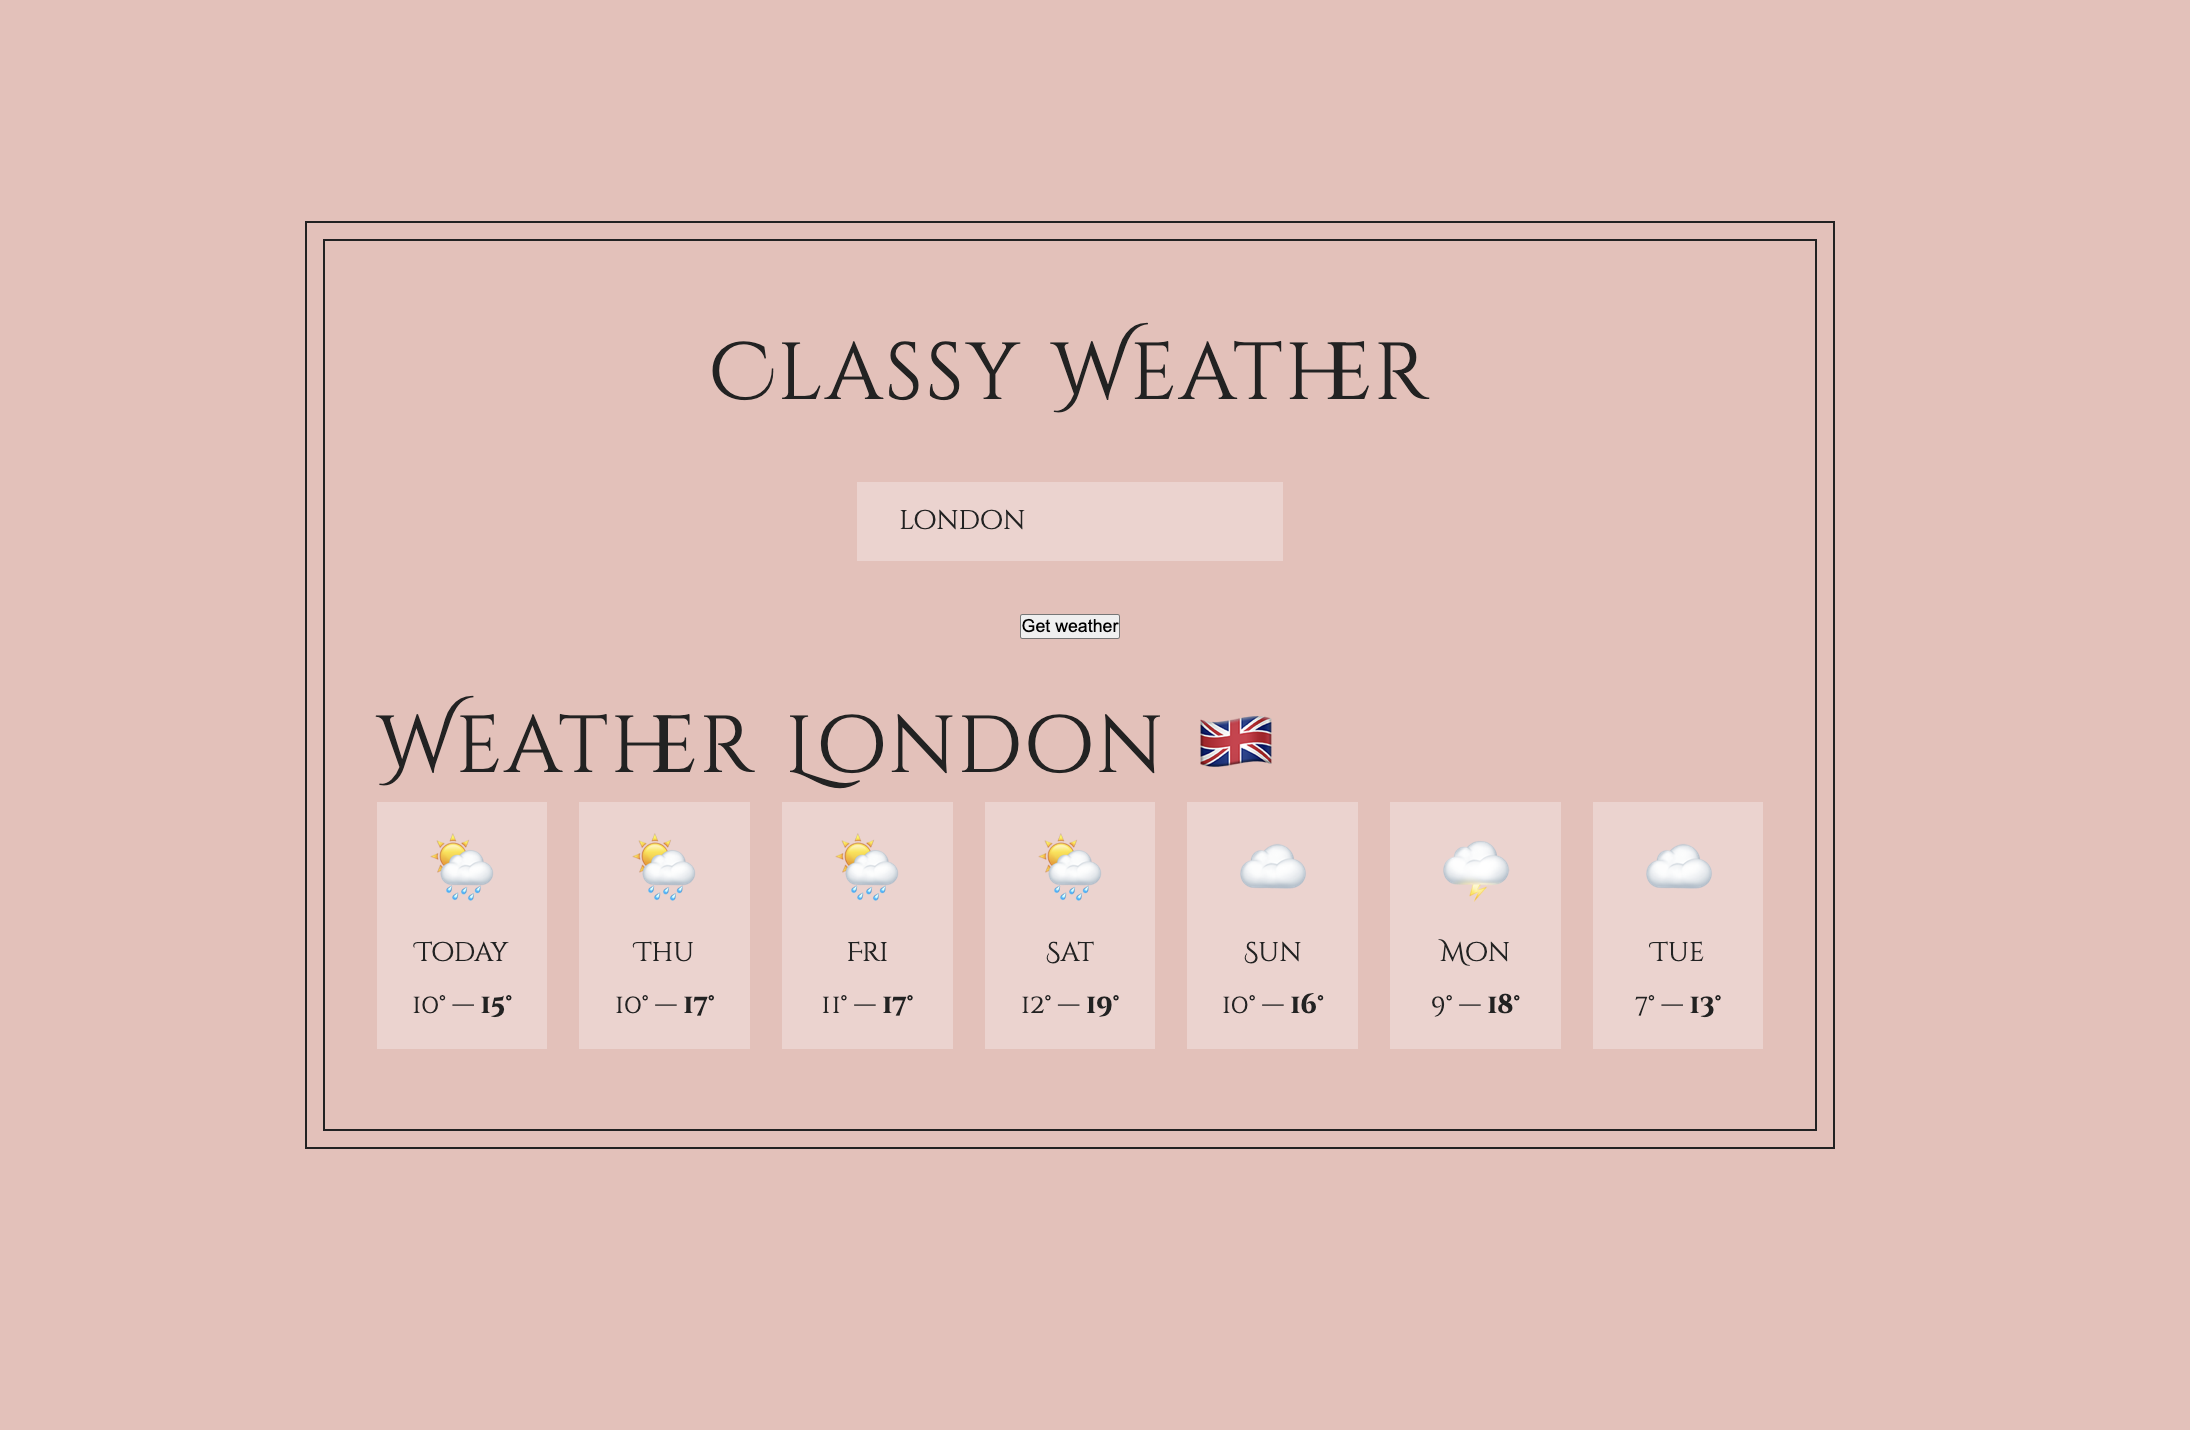
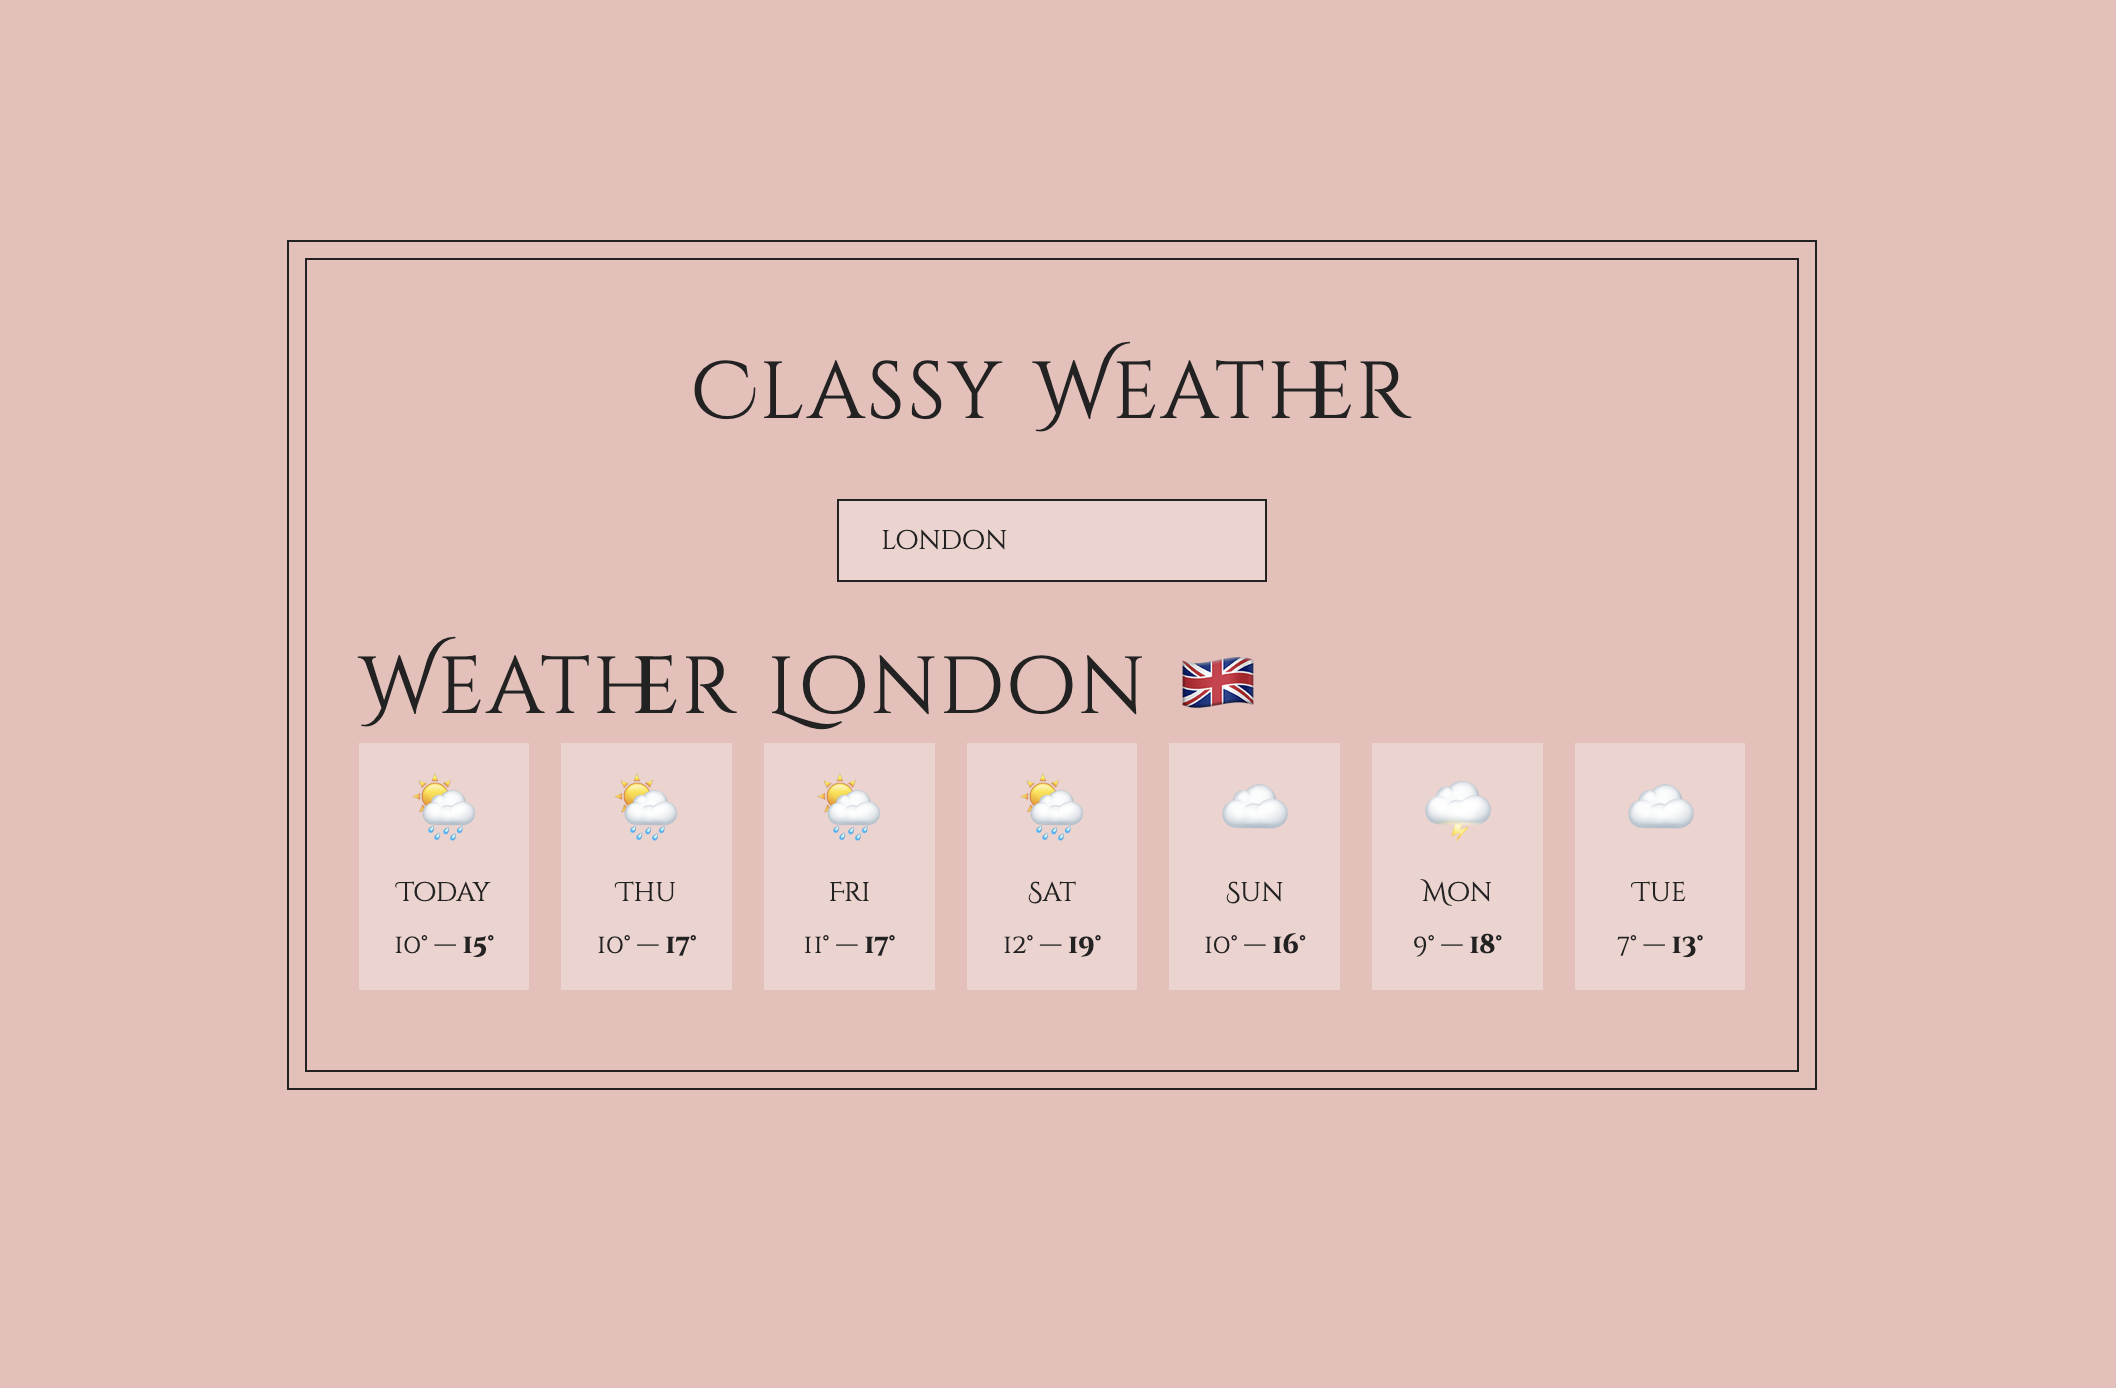
use lifecycle methods to perform side effects

diff --git a/src/App.js b/src/App.js
@@ -64,13 +64,21 @@ class App extends React.Component {
       const weatherData = await weatherRes.json();
       this.setState({ weather: weatherData.daily });
     } catch (err) {
-      console.err(err);
+      console.error(err);
     } finally {
       this.setState({ isLoading: false });
     }
   };
 
   handleChangeLocation = (e) => this.setState({ location: e.target.value });
+
+  componentDidMount() {
+    this.fetchWeather();
+  }
+
+  componentDidUpdate(prevProps, prevState) {
+    if (prevState.location !== this.state.location) this.fetchWeather();
+  }
 
   render() {
     return (
@@ -80,7 +88,6 @@ class App extends React.Component {
           location={this.state.location}
           onChangeLocation={this.handleChangeLocation}
         />
-        <button onClick={this.fetchWeather}>Get weather</button>
         {this.state.isLoading && <p className="loader">Loading...</p>}
         {this.state.weather.weathercode && (
           <Weather
